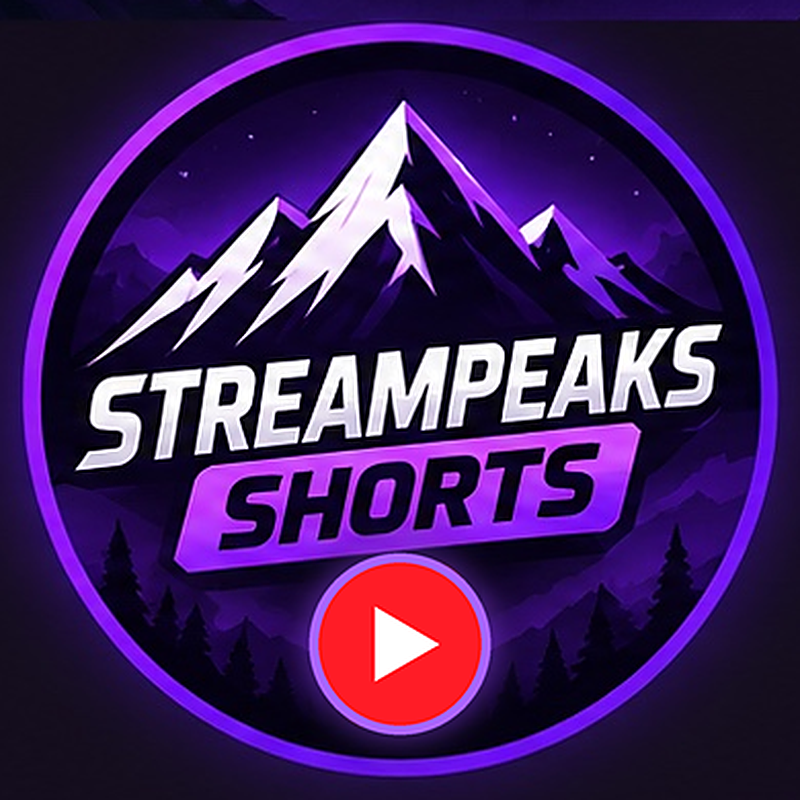
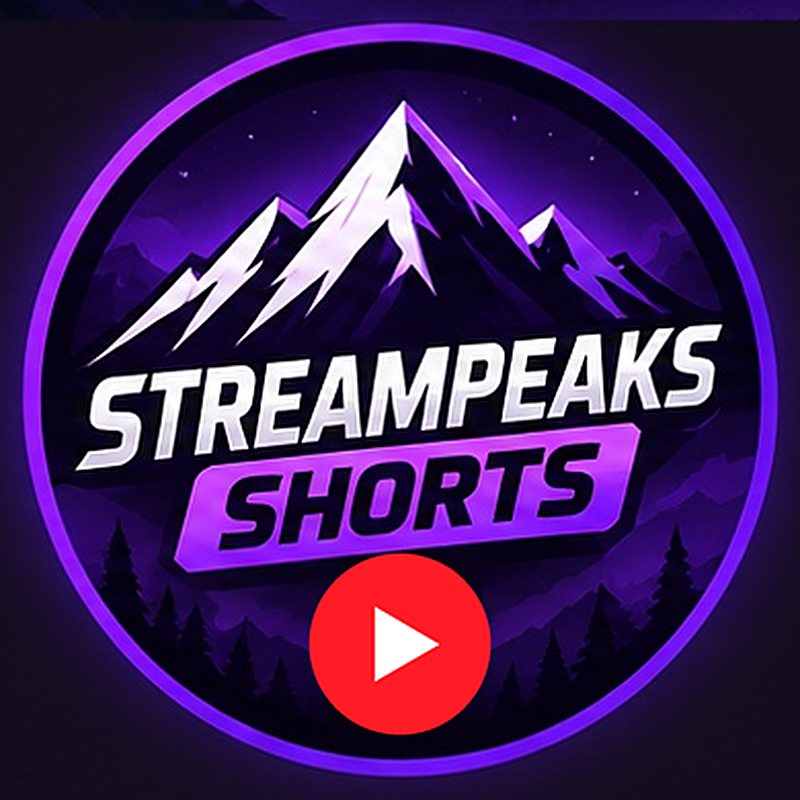
Branding: drop the purple ring around the play badge

Changed region(s): [[0.375, 0.6562, 0.625, 0.9375]]

diff --git a/gta6-clips/branding/fit_banner.py b/gta6-clips/branding/fit_banner.py
@@ -21,7 +21,7 @@ LOGOS = [(1287, 206, 1395, 346), (962, 658, 1021, 734)]   # banner, avatar
 
 
 def play_badge(img, box):
-    """Red round badge with a thin purple ring and a white play arrow, sized to
+    """Red round badge with a white play arrow, sized to
     cover the old logo's whole footprint (it overlapped the lettering)."""
     x0, y0, x1, y1 = box
     cx, cy = (x0 + x1) / 2, (y0 + y1) / 2
@@ -31,12 +31,7 @@ def play_badge(img, box):
     o = S / 2
     layer = Image.new("RGBA", (S, S), (0, 0, 0, 0))
     d = ImageDraw.Draw(layer)
-    d.ellipse([o - r * 1.18 * k, o - r * 1.18 * k, o + r * 1.18 * k, o + r * 1.18 * k],
-              fill=(150, 70, 255, 120))                       # purple glow seed
-    layer = layer.filter(ImageFilter.GaussianBlur(r * 0.18 * k))
-    d = ImageDraw.Draw(layer)
-    d.ellipse([o - r * k, o - r * k, o + r * k, o + r * k], fill=(170, 100, 255, 255))   # ring
-    rr = r * 0.9
+    rr = r
     d.ellipse([o - rr * k, o - rr * k, o + rr * k, o + rr * k], fill=(255, 28, 38, 255))  # red badge
     t = r * 0.66                                                                          # arrow
     tri = [(o - t * 0.42 * k, o - t * 0.62 * k), (o - t * 0.42 * k, o + t * 0.62 * k),
